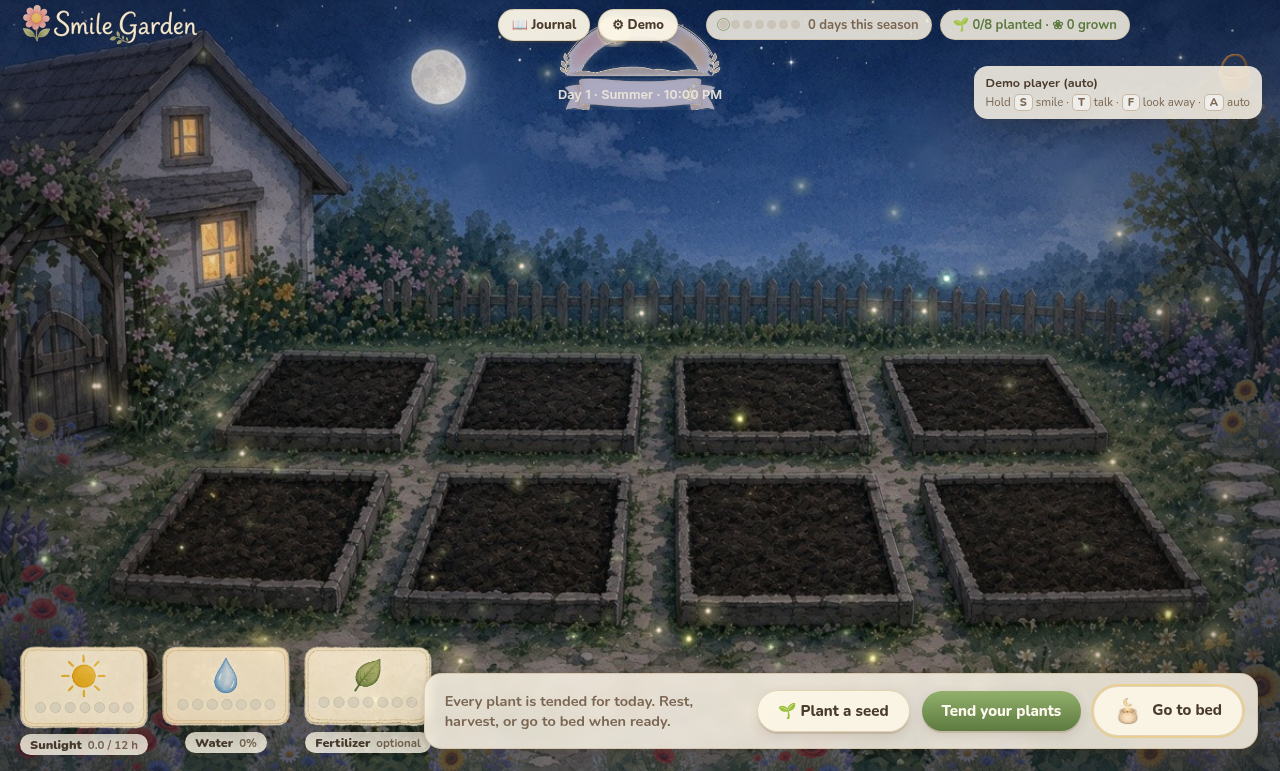
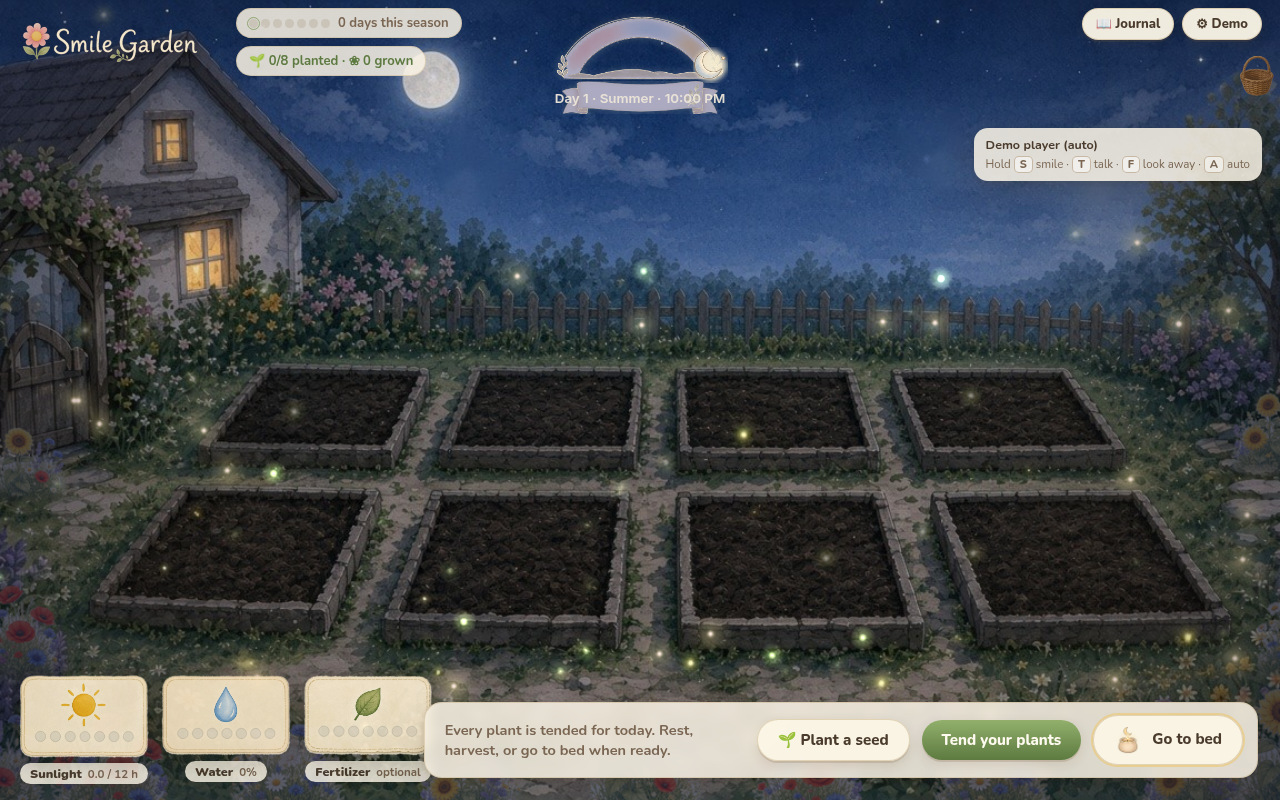
Fix painted-clock HUD grid, moon token, and layout capture tests.
Replace the flex order regression with a top-bar grid plus runtime chip
width clamping against the backdrop clock keep-out band. Add hud-layout
helpers, node tests, and capture-time overlap checks at 1280/1100/960 with
sun and moon canvas probes; refresh time-of-day doc screenshots.

diff --git a/game/hud-layout.js b/game/hud-layout.js
@@ -1,0 +1,84 @@
+// game/hud-layout.js — keep HTML HUD out of the painted clock band (backdrop px).
+'use strict';
+
+(function (root, factory) {
+    const api = factory();
+    if (typeof module === 'object' && module.exports) module.exports = api;
+    else root.SmileHudLayout = api;
+})(typeof self !== 'undefined' ? self : this, function () {
+    const BACKDROP = Object.freeze({ w: 1280, h: 720 });
+    /** Heily clock band at 1280×720 (frame + ribbon); chips must stop before left. */
+    const CLOCK_KEEP_OUT = Object.freeze({ left: 548, right: 732, top: 0, bottom: 108 });
+
+    function viewTransform(cssW, cssH) {
+        const w = Math.max(1, Number(cssW) || BACKDROP.w);
+        const h = Math.max(1, Number(cssH) || BACKDROP.h);
+        const s = Math.max(w / BACKDROP.w, h / BACKDROP.h);
+        return {
+            s,
+            ox: (w - BACKDROP.w * s) / 2,
+            oy: (h - BACKDROP.h * s) / 2,
+        };
+    }
+
+    function clockKeepOutClientRect(cssW, cssH) {
+        const { s, ox, oy } = viewTransform(cssW, cssH);
+        const left = CLOCK_KEEP_OUT.left * s + ox;
+        const top = CLOCK_KEEP_OUT.top * s + oy;
+        const right = CLOCK_KEEP_OUT.right * s + ox;
+        const bottom = CLOCK_KEEP_OUT.bottom * s + oy;
+        return { left, top, right, bottom, width: right - left, height: bottom - top };
+    }
+
+    function rectsOverlap(a, b) {
+        return !(a.right <= b.left || a.left >= b.right || a.bottom <= b.top || a.top >= b.bottom);
+    }
+
+  /** @param {number} cssW @param {number} cssH @param {Array<{left,top,right,bottom}>} hudRects */
+    function findClockOverlaps(cssW, cssH, hudRects) {
+        const keep = clockKeepOutClientRect(cssW, cssH);
+        const hits = [];
+        for (const item of hudRects) {
+            const r = item.rect || item;
+            if (!r || r.width === 0 && r.height === 0) continue;
+            if (rectsOverlap(keep, r)) hits.push({ id: item.id, cls: item.cls, rect: r });
+        }
+        return { ok: hits.length === 0, keepOut: keep, hits, cssW, cssH };
+    }
+
+    function auditHudLayoutInDocument() {
+        if (typeof document === 'undefined') return { ok: false, reason: 'no-dom' };
+        const cssW = window.innerWidth;
+        const cssH = window.innerHeight;
+        const selectors = [
+            '.topbar .brand',
+            '.topbar .chips',
+            '.topbar .chip',
+            '.topbar .top-actions',
+            '.topbar .top-actions .btn',
+            '#mock-badge',
+        ];
+        const hudRects = [];
+        for (const sel of selectors) {
+            document.querySelectorAll(sel).forEach((el) => {
+                if (el.hidden) return;
+                const r = el.getBoundingClientRect();
+                if (r.width < 1 && r.height < 1) return;
+                hudRects.push({ id: el.id || null, cls: el.className, rect: { left: r.left, top: r.top, right: r.right, bottom: r.bottom, width: r.width, height: r.height } });
+            });
+        }
+        const out = findClockOverlaps(cssW, cssH, hudRects);
+        out.paintedClock = document.body && document.body.dataset.paintedClock === '1';
+        return out;
+    }
+
+    return {
+        BACKDROP,
+        CLOCK_KEEP_OUT,
+        viewTransform,
+        clockKeepOutClientRect,
+        rectsOverlap,
+        findClockOverlaps,
+        auditHudLayoutInDocument,
+    };
+});

diff --git a/renderer/app.js b/renderer/app.js
@@ -203,6 +203,22 @@
         document.body.dataset.gardenV = '5';
     }
 
+    function syncHudChipClamp() {
+        if (document.body.dataset.paintedClock !== '1') {
+            document.documentElement.style.removeProperty('--hud-chips-max');
+            return;
+        }
+        const H = typeof window !== 'undefined' ? window.SmileHudLayout : null;
+        if (!H) return;
+        const keep = H.clockKeepOutClientRect(window.innerWidth, window.innerHeight);
+        const chips = document.querySelector('.topbar .chips');
+        if (!chips) return;
+        const chipLeft = chips.getBoundingClientRect().left;
+        const pad = 6;
+        const maxW = Math.floor(Math.max(96, keep.left - chipLeft - pad));
+        document.documentElement.style.setProperty('--hud-chips-max', `${maxW}px`);
+    }
+
     function renderHud() {
         const now = clock.now();
         if (state.version >= 5) {
@@ -251,6 +267,7 @@
         document.body.dataset.planted = String(sc.planted);
         document.body.dataset.mature = String(sc.mature);
         els.devDay.textContent = clock.offsetDays ? `+${clock.offsetDays} day${clock.offsetDays > 1 ? 's' : ''}` : 'today';
+        syncHudChipClamp();
     }
 
     const meterImgs = {};
@@ -1568,6 +1585,7 @@
             refreshLighting();
         }
         document.body.dataset.ready = '1';
+        window.addEventListener('resize', syncHudChipClamp);
     }
 
     // Dev/test hooks (used by scripts/capture-driver.js; harmless otherwise).
@@ -1626,25 +1644,19 @@
         clearSeasonOverride() { hudSeasonOverride = false; syncGardenSeasonFromDay(); renderHud(); },
         waitForHudArt: (ms) => scene.waitForHudArt(ms),
         probeClockSunToken() {
-            const C = typeof window !== 'undefined' ? window.SmileClockArc : null;
-            if (!ART.clock || !C) {
-                return { ok: false, reason: 'missing-clock', hasArtClock: !!ART.clock, hasSmileClockArc: !!C };
-            }
-            const tok = C.clockTokenState(state.gardenMinutes);
-            const fr = C.tokenFrameXY(tok.sunDeg);
-            const d = ART.clock.display;
-            const scale = ART.clock.display.w / ART.clock.framePixels[0];
-            const center = { x: d.cx - d.w / 2 + fr.x * scale, y: d.cy - d.h / 2 + fr.y * scale };
             scene.draw(performance.now() / 1000);
-            const pixel = scene.sampleBackdrop ? scene.sampleBackdrop(center.x, center.y) : { a: 0 };
-            return {
-                ok: true,
-                gardenMinutes: state.gardenMinutes,
-                center,
-                deg: tok.sunDeg,
-                sunAlpha: tok.sunAlpha,
-                pixel,
-            };
+            return scene.probeClockSunToken();
+        },
+        probeClockMoonToken() {
+            scene.draw(performance.now() / 1000);
+            return scene.probeClockMoonToken();
+        },
+        syncHudChipClamp,
+        auditHudLayout() {
+            syncHudChipClamp();
+            const H = typeof window !== 'undefined' ? window.SmileHudLayout : null;
+            if (!H) return { ok: false, reason: 'missing-hud-layout' };
+            return H.auditHudLayoutInDocument();
         },
         async previewBedtimeGlow() {
             scene.setLighting('night');

diff --git a/scripts/capture-driver.js b/scripts/capture-driver.js
@@ -16,6 +16,24 @@ async function runTimeArt(win, outDir) {
     const wc = win.webContents;
     const js = (code) => wc.executeJavaScript(code, true);
     const G = (expr) => js(`(() => { const g = window.__smileGarden; return ${expr}; })()`);
+    const assertHudLayouts = async (widths) => {
+        const list = widths || [1280, 1100, 960];
+        for (const w of list) {
+            win.setMinimumSize(720, 640);
+            win.setContentSize(w, 800);
+            await sleep(450);
+            await waitHud();
+            const r = await G('g.auditHudLayout()');
+            if (!r || !r.ok) {
+                console.warn('[capture] hud layout @', w, JSON.stringify(r));
+                throw new Error(`HUD overlaps painted clock at width ${w}`);
+            }
+            console.log('[capture] hud layout ok @', w);
+        }
+        win.setContentSize(1280, 800);
+        await sleep(300);
+        await waitHud();
+    };
     const sleep = (ms) => new Promise((r) => setTimeout(r, ms));
     const waitHud = async () => {
         const t0 = Date.now();
@@ -63,6 +81,7 @@ async function runTimeArt(win, outDir) {
     await js(`(() => { const c = document.getElementById('chk-adult'); c.checked = true; c.dispatchEvent(new Event('change')); document.getElementById('btn-wellness-ok').click(); })()`);
     await sleep(800);
     await waitHud();
+    await assertHudLayouts([1280, 1100, 960]);
     await frame(async () => {
         await G('g.clearSeasonOverride()');
         await G('g.setGardenTime(6 * 60)');
@@ -84,8 +103,14 @@ async function runTimeArt(win, outDir) {
     await shot('clock-sunset-6pm.png');
     await shotTopBar2x('topbar-dusk-6pm-2x.png');
     await frame(async () => { await G('g.setGardenTime(22 * 60)'); });
+    const probeNight = await G('g.probeClockMoonToken()');
+    if (!probeNight || !probeNight.ok || probeNight.moonAlpha < 0.9 || (probeNight.pixel && probeNight.pixel.a < 48)) {
+        console.warn('[capture] clock moon probe', JSON.stringify(probeNight));
+        throw new Error('moon token not visible on canvas at 22:00 (probe failed)');
+    }
     await shot('clock-night.png');
     await shotTopBar2x('topbar-night-2x.png');
+    await assertHudLayouts([1280, 1100, 960]);
     for (const [season, name] of [['spring', 'season-spring.png'], ['summer', 'season-summer.png'], ['autumn', 'season-autumn.png'], ['winter', 'season-winter.png']]) {
         await frame(async () => {
             await G(`g.setSeason('${season}')`);

diff --git a/renderer/styles.css b/renderer/styles.css
@@ -85,24 +85,62 @@ body[data-canvas-logo="1"] .brand:not(:has(.brand-logo)) {
     min-width: 0; width: 0; flex: 0 0 auto; overflow: visible; pointer-events: none;
 }
 body[data-painted-clock="1"] .chip-day { display: none; }
+/* Grid: logo | chips (stop before clock) | clock keep-out | spacer | Journal+Demo top-right */
 body[data-painted-clock="1"] .topbar {
-    min-height: 56px;
-    flex-wrap: wrap;
-    align-content: flex-start;
+    display: grid;
+    grid-template-columns:
+        calc(var(--hud-logo-width) + var(--hud-logo-gap))
+        minmax(0, var(--hud-chips-max, 300px))
+        clamp(160px, 14.375vw, 200px)
+        minmax(8px, 1fr)
+        auto;
+    grid-template-rows: auto auto;
+    align-items: center;
+    column-gap: 10px;
     row-gap: 6px;
-    padding-bottom: 54px;
+    min-height: 56px;
+    height: auto;
+    padding: 8px 18px 52px;
     pointer-events: none;
 }
 body[data-painted-clock="1"] .topbar .chip,
 body[data-painted-clock="1"] .topbar .btn { pointer-events: auto; }
-body[data-painted-clock="1"] .chips {
-    flex: 1 1 100%;
-    order: 4;
-    max-width: min(100%, calc(50vw - 84px));
-    margin-left: calc(18px + var(--hud-logo-width) + var(--hud-logo-gap));
-    box-sizing: border-box;
+body[data-painted-clock="1"] .brand {
+    grid-column: 1;
+    grid-row: 1;
+    margin: 0;
+    width: var(--hud-logo-width);
+    min-width: var(--hud-logo-width);
+    flex: none;
 }
-body[data-painted-clock="1"] .top-actions { order: 3; margin-left: auto; }
+body[data-painted-clock="1"] .chips {
+    grid-column: 2;
+    grid-row: 1;
+    margin: 0;
+    flex: none;
+    max-width: 100%;
+    min-width: 0;
+    overflow: visible;
+    flex-wrap: wrap;
+    align-content: flex-start;
+}
+body[data-painted-clock="1"] .top-actions {
+    grid-column: 5;
+    grid-row: 1;
+    margin: 0;
+    justify-self: end;
+    align-self: start;
+}
+body[data-painted-clock="1"] .mock-badge {
+    top: 128px;
+}
+@media (max-width: 1100px) {
+    body[data-painted-clock="1"] .chips {
+        grid-column: 1 / 3;
+        grid-row: 2;
+        max-width: var(--hud-chips-max, calc(100vw - 36px));
+    }
+}
 .btn-bed .btn-bed-icon { width: 28px; height: 28px; margin-right: 6px; vertical-align: middle; }
 body[data-painted-clock="1"] .chip-day #day-chip-text { position: absolute; width: 1px; height: 1px; overflow: hidden; clip: rect(0, 0, 0, 0); }
 .chips { display: flex; gap: 8px; flex: 1; flex-wrap: wrap; }

diff --git a/test/hud-layout.test.js b/test/hud-layout.test.js
@@ -1,0 +1,45 @@
+'use strict';
+
+const test = require('node:test');
+const assert = require('node:assert/strict');
+const H = require('../game/hud-layout.js');
+
+const widths = [1280, 1100, 960];
+const viewH = 800;
+
+test('clock keep-out band maps to centered viewport band', () => {
+    for (const cssW of widths) {
+        const keep = H.clockKeepOutClientRect(cssW, viewH);
+        const { s, ox } = H.viewTransform(cssW, viewH);
+        const expLeft = H.CLOCK_KEEP_OUT.left * s + ox;
+        const expRight = H.CLOCK_KEEP_OUT.right * s + ox;
+        assert.ok(Math.abs(keep.left - expLeft) < 0.5, `left @${cssW}`);
+        assert.ok(Math.abs(keep.right - expRight) < 0.5, `right @${cssW}`);
+        assert.ok(keep.width > 140, `width @${cssW}`);
+    }
+});
+
+test('hud rects in the logo+chip and top-actions columns do not intersect keep-out at 1280', () => {
+    const cssW = 1280;
+    const cssH = viewH;
+    const keep = H.clockKeepOutClientRect(cssW, cssH);
+    const logoW = 184 + 12;
+    const hudRects = [
+        { id: 'brand', rect: { left: 18, top: 8, right: 18 + logoW, bottom: 52, width: logoW, height: 44 } },
+        { id: 'chips', rect: { left: 18 + logoW + 10, top: 12, right: keep.left - 4, bottom: 44, width: keep.left - 4 - (18 + logoW + 10), height: 32 } },
+        { id: 'actions', rect: { left: cssW - 18 - 200, top: 8, right: cssW - 18, bottom: 48, width: 200, height: 40 } },
+    ];
+    const out = H.findClockOverlaps(cssW, cssH, hudRects);
+    assert.equal(out.ok, true, JSON.stringify(out.hits));
+    assert.ok(hudRects[1].rect.right <= keep.left + 0.5, 'chips must end before clock band');
+    assert.ok(hudRects[2].rect.left >= keep.right - 0.5, 'actions must start after clock band');
+});
+
+test('mock badge below top-actions does not intersect keep-out', () => {
+    const cssW = 1280;
+    const keep = H.clockKeepOutClientRect(cssW, viewH);
+    const badge = { id: 'mock-badge', rect: { left: cssW - 240, top: 128, right: cssW - 18, bottom: 160, width: 222, height: 32 } };
+    const out = H.findClockOverlaps(cssW, viewH, [badge]);
+    assert.equal(out.ok, true);
+    assert.ok(badge.rect.top >= keep.bottom - 0.5, 'badge sits below clock band');
+});

diff --git a/renderer/scene.js b/renderer/scene.js
@@ -1508,8 +1508,27 @@
             };
         }
 
+        function probeClockMoonToken() {
+            const CARC = typeof window !== 'undefined' ? window.SmileClockArc : null;
+            if (!ART.clock || !CARC) return { ok: false, reason: 'missing-clock' };
+            const tok = CARC.clockTokenState(gardenClockMinutes);
+            const fr = CARC.tokenFrameXY(tok.moonDeg);
+            const center = clockPointFromFrame(fr.x, fr.y);
+            const pixel = sampleBackdrop(center.x, center.y);
+            return {
+                ok: true,
+                gardenClockMinutes,
+                center,
+                deg: tok.moonDeg,
+                moonAlpha: tok.moonAlpha,
+                moonReady: ready(clockMoonImg),
+                moonNatural: clockMoonImg ? clockMoonImg.naturalWidth : 0,
+                pixel,
+            };
+        }
+
         return { resize, update, draw, setLighting, setLightingBlend, setSeason, setGardenClock, setBedtimeGlow, setBedtimeDark, setPlots, setDecor, playHarvestAnim, playGrowth, playAbsorb, setEffects, setHighlight, setHover, setTendSelection, plotAt, plotClient,
-            waitForHudArt, hudArtReady, sampleBackdrop, probeClockSunToken,
+            waitForHudArt, hudArtReady, sampleBackdrop, probeClockSunToken, probeClockMoonToken,
             get lighting() { return lighting; },
             get reducedMotion() { return reducedMotion; },
             setReducedMotion(v) { reducedMotion = !!v; },

diff --git a/test/day.test.js b/test/day.test.js
@@ -80,11 +80,10 @@ test('clock arc places sun token at 6:00, noon, and 18:00', () => {
     expectSunAt(at(18, 0), 33, false);
     const night = C.clockTokenState(at(21, 0));
     assert.ok(night.moonAlpha > 0.9 && night.sunAlpha < 0.1);
-    const moonAlong = 147 + (33 - 147) * 0.25;
-    assert.ok(Math.abs(night.moonDeg - moonAlong) < 0.05, `moonDeg ${night.moonDeg} at 21:00`);
+    assert.ok(Math.abs(night.moonDeg - 33) < 0.05, `moon at right end at 21:00`);
     const moon = C.tokenFrameXY(night.moonDeg);
-    const expMoon = C.tokenFrameXY(moonAlong);
-    assert.ok(Math.abs(moon.x - expMoon.x) < tol && Math.abs(moon.y - expMoon.y) < tol);
+    const moonRest = C.tokenFrameXY(33);
+    assert.ok(Math.abs(moon.x - moonRest.x) < tol && Math.abs(moon.y - moonRest.y) < tol);
 });
 
 test('season particle pools distinguish spring, summer day, and summer night', () => {

diff --git a/renderer/index.html b/renderer/index.html
@@ -245,6 +245,7 @@
 <script src="../game/day.js"></script>
 <script src="../game/clock-arc.js"></script>
 <script src="../game/clock-layout.js"></script>
+<script src="../game/hud-layout.js"></script>
 <script src="../game/visit.js"></script>
 <script src="../game/critters.js"></script>
 <script src="./art.js"></script>

diff --git a/game/clock-arc.js b/game/clock-arc.js
@@ -53,8 +53,7 @@
             sunAlpha = 1 - t;
             moonAlpha = t;
         } else {
-            const t = Math.min(1, (hour - 18) / 12);
-            moonDeg = startDeg + (endDeg - startDeg) * t;
+            moonDeg = endDeg;
             moonAlpha = 1;
         }
 
